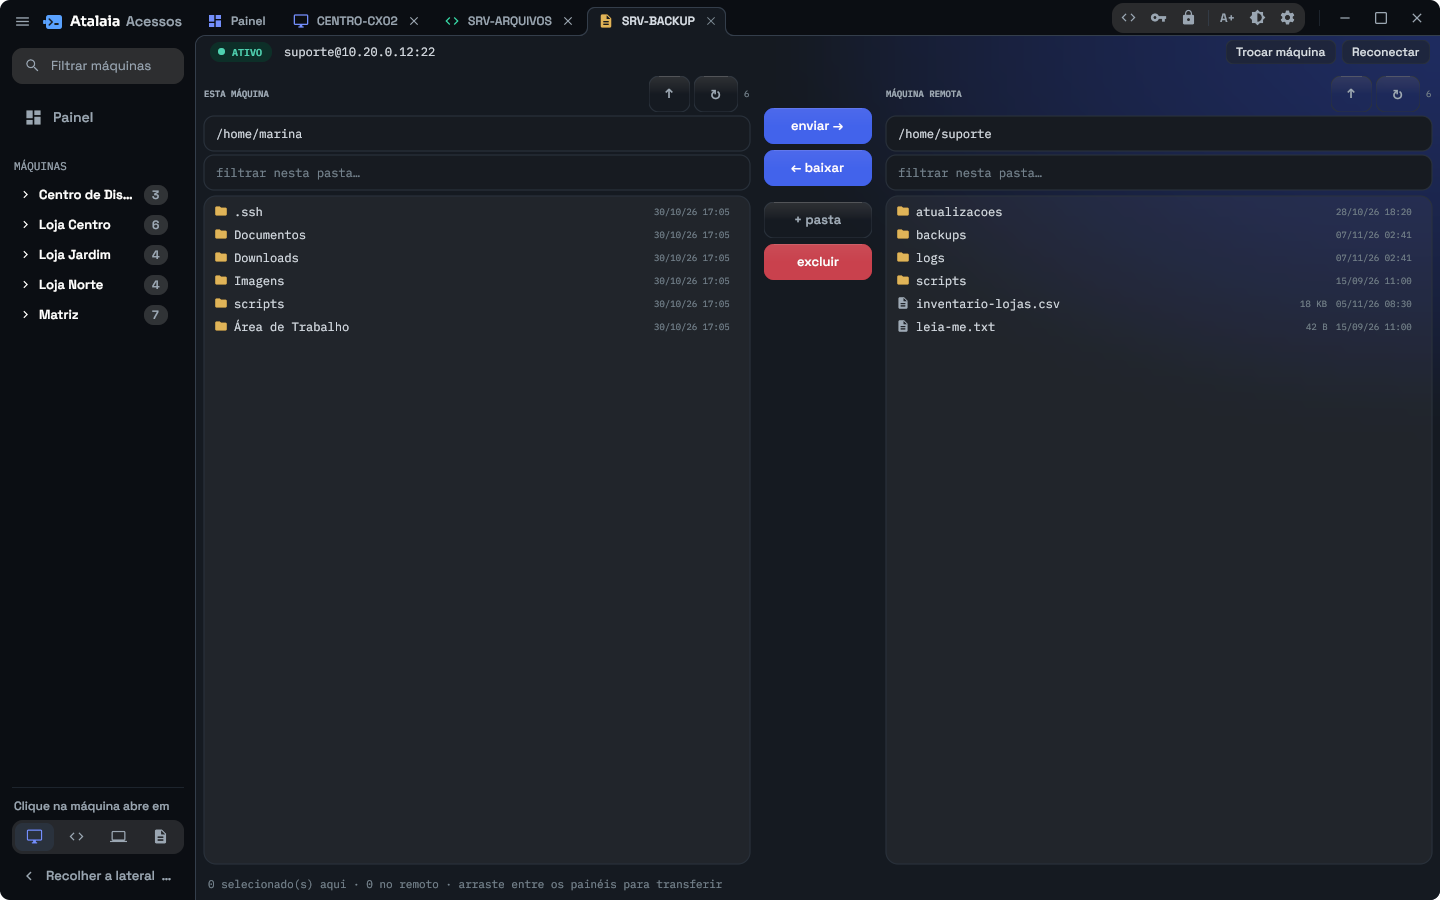
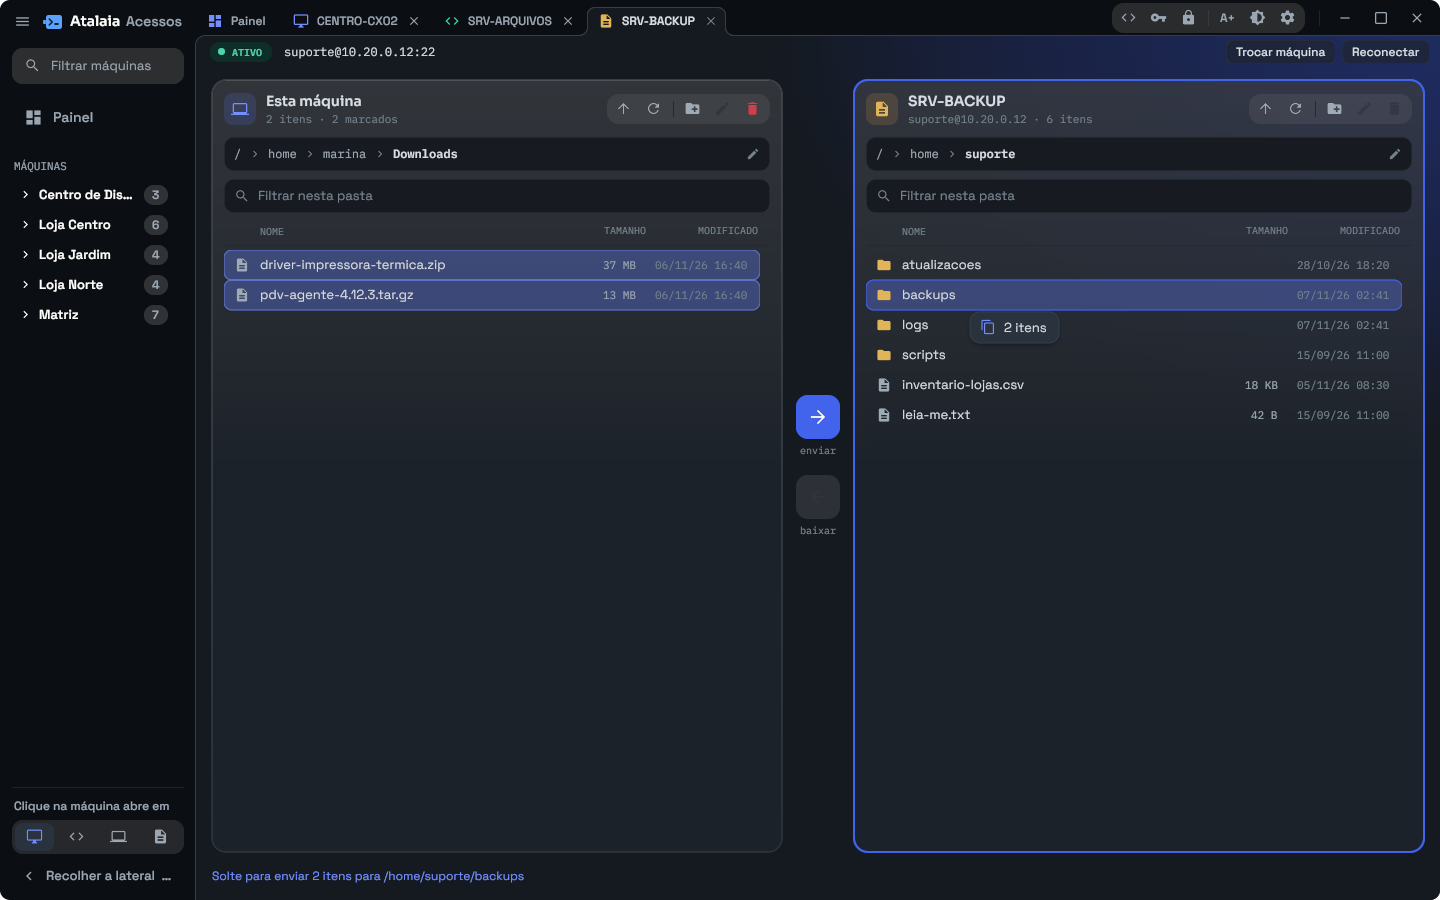
2.9.2: SFTP repaginado, VNC do Windows com as correções de segurança e Go 1.27.3 no Flatpak

diff --git a/docs/uso.md b/docs/uso.md
@@ -80,11 +80,32 @@ um lado e colar do outro funciona nos dois sentidos.
 
 ![SFTP](../screenshots/sftp.png)
 
-À esquerda fica esta máquina, à direita a remota. Arraste arquivos de um lado
-para o outro, ou marque e use **enviar** e **baixar**. **+ pasta** cria uma
-pasta, **excluir** apaga os itens marcados (pedindo confirmação), e o campo
-**filtrar nesta pasta** ajuda em pastas grandes. **Trocar máquina** aponta o
-mesmo painel para outra máquina sem fechar a aba.
+À esquerda fica esta máquina, à direita a remota. Cada lado tem as suas
+ferramentas no cabeçalho (pasta de cima, atualizar, nova pasta, renomear e
+excluir), o caminho em pedaços clicáveis (clicar no vazio ao lado deixa
+digitar um caminho) e o filtro da pasta aberta.
+
+Para transferir:
+
+- **arraste** o arquivo (ou os marcados) até o outro lado. O painel que vai
+  receber fica com contorno azul; soltando em cima de uma pasta, o arquivo
+  vai para dentro dela;
+- **dois cliques** num arquivo mandam ele para o outro lado;
+- as setas do meio (**enviar** e **baixar**) mandam os marcados.
+
+Clique marca um item, Ctrl+clique soma ou tira, Shift+clique marca uma faixa.
+O botão direito traz Abrir, Enviar ou Baixar, Renomear, Copiar caminho, Nova
+pasta e Excluir. Fora dos campos de texto, valem `Delete` (excluir), `F2`
+(renomear), `F5` (atualizar), `Enter` (abrir a pasta ou transferir),
+`Backspace` (pasta de cima) e `Ctrl+A` (marcar tudo).
+
+Arquivo que já existe do outro lado não é sobrescrito sem perguntar: antes de
+começar, o app lista os conflitos e oferece sobrescrever, pular os
+existentes ou cancelar. Pasta é copiada inteira, juntando com o que já
+existe no destino. Excluir, dos dois lados, mostra antes quantos arquivos e
+pastas vão sair. O rodapé acompanha a transferência com a barra, a
+quantidade e a velocidade. **Trocar máquina** aponta o mesmo painel para
+outra máquina sem fechar a aba.
 
 ## Atalhos de teclado
 

diff --git a/README.md b/README.md
@@ -58,9 +58,11 @@ sessão.
 
 ![Sessão VNC mostrando a tela de um caixa de supermercado](screenshots/vnc.png)
 
-**Arquivos (SFTP)**: esta máquina à esquerda, a remota à direita.
+**Arquivos (SFTP)**: esta máquina à esquerda, a remota à direita. Arraste
+de um lado para o outro (soltando em cima de uma pasta, vai para dentro
+dela), ou dê dois cliques no arquivo.
 
-![Transferência de arquivos com duas colunas](screenshots/sftp.png)
+![Dois arquivos sendo arrastados para a pasta backups do servidor](screenshots/sftp.png)
 
 **Execução em massa.** O comando roda primeiro em três máquinas; só depois
 que você confere o resultado ele segue para as outras, uma por vez ou em
